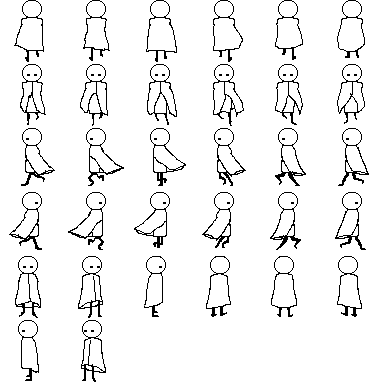
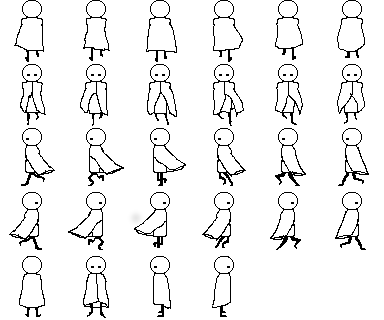
Edited sprites and added static sprites for standing still

diff --git a/include/Player.cpp b/include/Player.cpp
@@ -26,8 +26,8 @@ Player::Player(int x, int y)
 	lastTimeMu = 0;
 
 	//Movement default
-	speedRegular = 10;
-	speedSlow = 5;
+	speedRegular = 8;
+	speedSlow = 6;
 	lastDirection = 0;
 }
 
@@ -91,6 +91,25 @@ void Player::setCollisionBools(sf::Sprite spr, int speed)
 	}
 }
 
+void Player::standStill()
+{
+	switch(lastDirection)
+	{
+		case 0:
+			sprite.setTextureRect(sf::IntRect(0, 256, 64, 64));
+			break;
+		case 1:
+			sprite.setTextureRect(sf::IntRect(64, 256, 64, 64));
+			break;
+		case 2:
+			sprite.setTextureRect(sf::IntRect(128, 256, 64, 64));
+			break;
+		case 3:
+			sprite.setTextureRect(sf::IntRect(192, 256, 64, 64));
+			break;
+	}
+}
+
 void Player::movePos(float& xDisplacement, float& yDisplacement)
 {
 	bool wPress = sf::Keyboard::isKeyPressed(sf::Keyboard::W);
@@ -109,16 +128,16 @@ void Player::movePos(float& xDisplacement, float& yDisplacement)
 	{
 		if(lastDirection == 0)
 		{
-			secondarySpeed = speedSlow;
+			primarySpeed = speedSlow;
 		}
 		else if(lastDirection == 3)
 		{
-			primarySpeed = speedSlow;
+			secondarySpeed = speedSlow;
 		}
 		else
 		{
 			lastDirection = 0;
-			secondarySpeed = speedSlow;
+			primarySpeed = speedSlow;
 		}
 
 		sprite.move(primarySpeed, -secondarySpeed);
@@ -131,16 +150,16 @@ void Player::movePos(float& xDisplacement, float& yDisplacement)
 	{
 		if(lastDirection == 0)
 		{
-			secondarySpeed = speedSlow;
+			primarySpeed = speedSlow;
 		}
 		else if(lastDirection == 2)
 		{
-			primarySpeed = speedSlow;
+			secondarySpeed = speedSlow;
 		}
 		else
 		{
 			lastDirection = 0;
-			secondarySpeed = speedSlow;
+			primarySpeed = speedSlow;
 		}
 
 		sprite.move(-primarySpeed, -secondarySpeed);
@@ -153,16 +172,16 @@ void Player::movePos(float& xDisplacement, float& yDisplacement)
 	{
 		if(lastDirection == 1)
 		{
-			secondarySpeed = speedSlow;
+			primarySpeed = speedSlow;
 		}
 		else if(lastDirection == 3)
 		{
-			primarySpeed = speedSlow;
+			secondarySpeed = speedSlow;
 		}
 		else
 		{
 			lastDirection = 1;
-			secondarySpeed = speedSlow;
+			primarySpeed = speedSlow;
 		}
 
 		sprite.move(primarySpeed, secondarySpeed);
@@ -175,16 +194,16 @@ void Player::movePos(float& xDisplacement, float& yDisplacement)
 	{
 		if(lastDirection == 1)
 		{
-			secondarySpeed = speedSlow;
+			primarySpeed = speedSlow;
 		}
 		else if(lastDirection == 2)
 		{
-			primarySpeed = speedSlow;
+			secondarySpeed = speedSlow;
 		}
 		else
 		{
 			lastDirection = 1;
-			secondarySpeed = speedSlow;
+			primarySpeed = speedSlow;
 		}
 
 		sprite.move(-primarySpeed, secondarySpeed);
@@ -211,6 +230,15 @@ void Player::movePos(float& xDisplacement, float& yDisplacement)
 		lastDirection = 1;
 		stepSound();
 	}
+	else if(aPress)
+	{
+		sprite.move(-primarySpeed, 0);
+		xDisplacement += -primarySpeed;
+		yDisplacement += 0;
+		spriteAnimation(2);
+		lastDirection = 2;
+		stepSound();
+	}
 	else if(dPress)
 	{
 		sprite.move(primarySpeed, 0);
@@ -220,14 +248,9 @@ void Player::movePos(float& xDisplacement, float& yDisplacement)
 		lastDirection = 3;
 		stepSound();
 	}
-	else if(aPress)
+	else
 	{
-		sprite.move(-primarySpeed, 0);
-		xDisplacement += -primarySpeed;
-		yDisplacement += 0;
-		spriteAnimation(2);
-		lastDirection = 2;
-		stepSound();
+		standStill();
 	}
 }
 
@@ -268,57 +291,6 @@ void Player::dashMove(int speed)
 sf::Vector2f Player::getPos()
 {
 	return sprite.getPosition();
-}
-
-void Player::mouseAndCharAngle(sf::Vector2i mo)
-{
-	//Calculates how much to rotate the player using trigonometry
-	float a = mo.x - sprite.getPosition().x;
-	float b = mo.y - sprite.getPosition().y;
-	float r = sqrt(a*a + b*b);
-	sprite.setRotation((asin(b / r)) * 180 / 3.14);
-
-	//Resets all booleans
-	bool mouseAtRight, mouseAtLeft, mouseAtUp, mouseAtDown;
-	mouseAtRight = mouseAtLeft = mouseAtUp = mouseAtDown = false;
-
-	if(mo.x > sprite.getPosition().x)
-	{
-		mouseAtRight = true;
-	}
-	if(mo.x < sprite.getPosition().x)
-	{
-		mouseAtLeft = true;
-	}
-	if(mo.y > sprite.getPosition().y)
-	{
-		mouseAtDown = true;
-	}
-	if(mo.y < sprite.getPosition().y)
-	{
-		mouseAtUp = true;
-	}
-
-	//TODO
-	if(mouseAtRight)
-	{
-		if(mouseAtUp)
-		{
-			//22.5
-		}
-		else if(mouseAtDown)
-		{
-		}
-	}
-	else if(mouseAtLeft)
-	{
-		if(mouseAtUp)
-		{
-		}
-		else if (mouseAtDown)
-		{
-		}
-	}
 }
 
 sf::Texture Player::getTexture()

diff --git a/include/Player.h b/include/Player.h
@@ -42,6 +42,7 @@ class Player
 		void setScale(float);
 		void setPos(int, int);
 		void stepSound();
+		void standStill();
 		void movePos(float&, float&);
 		void spriteAnimation(int);
 		void setCollisionBools(sf::Sprite, int);
